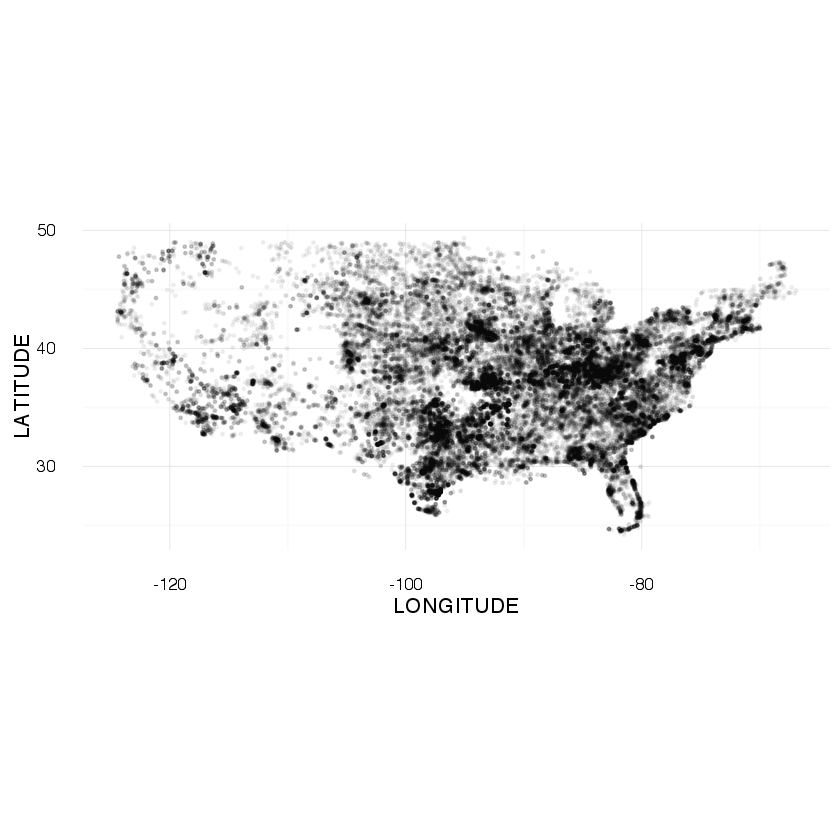
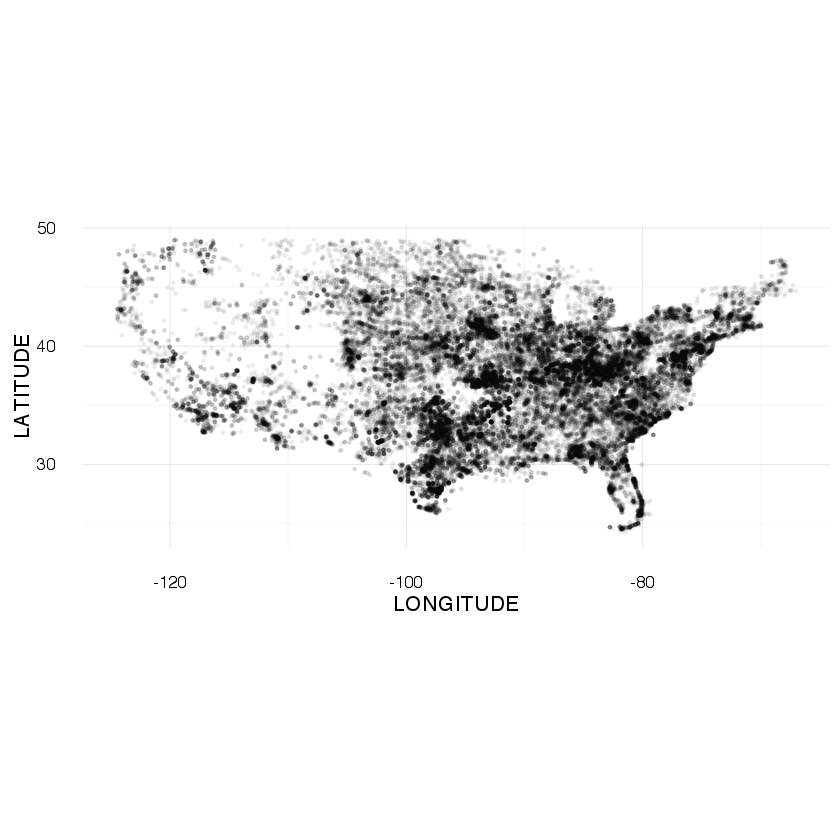
updating 2d density post to better specify spatial bounding box for ggmap

diff --git a/_posts/2016-07-07-2d-point-density_r.md b/_posts/2016-07-07-2d-point-density_r.md
@@ -75,7 +75,11 @@ We can filter the data based on the latitude and longitude values to remove poin
 
 
 ```R
-d <- subset(d, LATITUDE < 50 & LATITUDE > 22 & LONGITUDE > -125)
+lower48 <- c(left = -125, bottom = 24, right = -67, top = 49)
+d <- subset(d, LONGITUDE < lower48['right'] & 
+               LONGITUDE > lower48['left'] & 
+               LATITUDE > lower48['bottom'] & 
+               LATITUDE < lower48['top'])
 ```
 
 Let's visualize the location data, adding some alpha transparency and reducing the size of the points to avoid overplotting.
@@ -104,13 +108,37 @@ Combined with the basemap functionality of `ggmap`, visualizing spatial density 
 
 ```R
 # acquire basemap within bounding box
-bbox <- make_bbox(LONGITUDE, LATITUDE, data = d, .5)
-map <- get_map(location = bbox, maptype = 'satellite', color = 'bw')
+map <- get_stamenmap(lower48, zoom = 5, maptype = "toner-lite")
 ```
 
-    Warning message:
-    : bounding box given to google - spatial extent only approximate.converting bounding box to center/zoom specification. (experimental)
-    Map from URL : http://maps.googleapis.com/maps/api/staticmap?center=36.77,-95.7019&zoom=3&size=640x640&scale=2&maptype=satellite&language=en-EN&sensor=false
+    Map from URL : http://tile.stamen.com/toner-lite/5/4/10.png
+    Map from URL : http://tile.stamen.com/toner-lite/5/5/10.png
+    Map from URL : http://tile.stamen.com/toner-lite/5/6/10.png
+    Map from URL : http://tile.stamen.com/toner-lite/5/7/10.png
+    Map from URL : http://tile.stamen.com/toner-lite/5/8/10.png
+    Map from URL : http://tile.stamen.com/toner-lite/5/9/10.png
+    Map from URL : http://tile.stamen.com/toner-lite/5/10/10.png
+    Map from URL : http://tile.stamen.com/toner-lite/5/4/11.png
+    Map from URL : http://tile.stamen.com/toner-lite/5/5/11.png
+    Map from URL : http://tile.stamen.com/toner-lite/5/6/11.png
+    Map from URL : http://tile.stamen.com/toner-lite/5/7/11.png
+    Map from URL : http://tile.stamen.com/toner-lite/5/8/11.png
+    Map from URL : http://tile.stamen.com/toner-lite/5/9/11.png
+    Map from URL : http://tile.stamen.com/toner-lite/5/10/11.png
+    Map from URL : http://tile.stamen.com/toner-lite/5/4/12.png
+    Map from URL : http://tile.stamen.com/toner-lite/5/5/12.png
+    Map from URL : http://tile.stamen.com/toner-lite/5/6/12.png
+    Map from URL : http://tile.stamen.com/toner-lite/5/7/12.png
+    Map from URL : http://tile.stamen.com/toner-lite/5/8/12.png
+    Map from URL : http://tile.stamen.com/toner-lite/5/9/12.png
+    Map from URL : http://tile.stamen.com/toner-lite/5/10/12.png
+    Map from URL : http://tile.stamen.com/toner-lite/5/4/13.png
+    Map from URL : http://tile.stamen.com/toner-lite/5/5/13.png
+    Map from URL : http://tile.stamen.com/toner-lite/5/6/13.png
+    Map from URL : http://tile.stamen.com/toner-lite/5/7/13.png
+    Map from URL : http://tile.stamen.com/toner-lite/5/8/13.png
+    Map from URL : http://tile.stamen.com/toner-lite/5/9/13.png
+    Map from URL : http://tile.stamen.com/toner-lite/5/10/13.png
 
 
 You can pass arguments for `kde2d` through the call to `stat_density2d`. 
@@ -124,24 +152,15 @@ ggmap(map,
   stat_density2d(aes(fill = ..level.., alpha = ..level..), 
                  geom = "polygon", h = 1) + 
   scale_fill_gradient(low="red", high="yellow") + 
-  theme(legend.position = 'none') + 
-  ylim(range(d$LATITUDE)) + 
-  xlim(range(d$LONGITUDE))
+  theme(legend.position = 'none')
 ```
-
-    Scale for 'y' is already present. Adding another scale for 'y', which will
-    replace the existing scale.
-    Scale for 'x' is already present. Adding another scale for 'x', which will
-    replace the existing scale.
-    Warning message:
-    : Removed 1 rows containing missing values (geom_rect).
 
 
     
 
 
 
-![png](/images/2016-07-07-2d-point-density_r_12_2.png)
+![png](/images/2016-07-07-2d-point-density_r_12_1.png)
 
 
 
